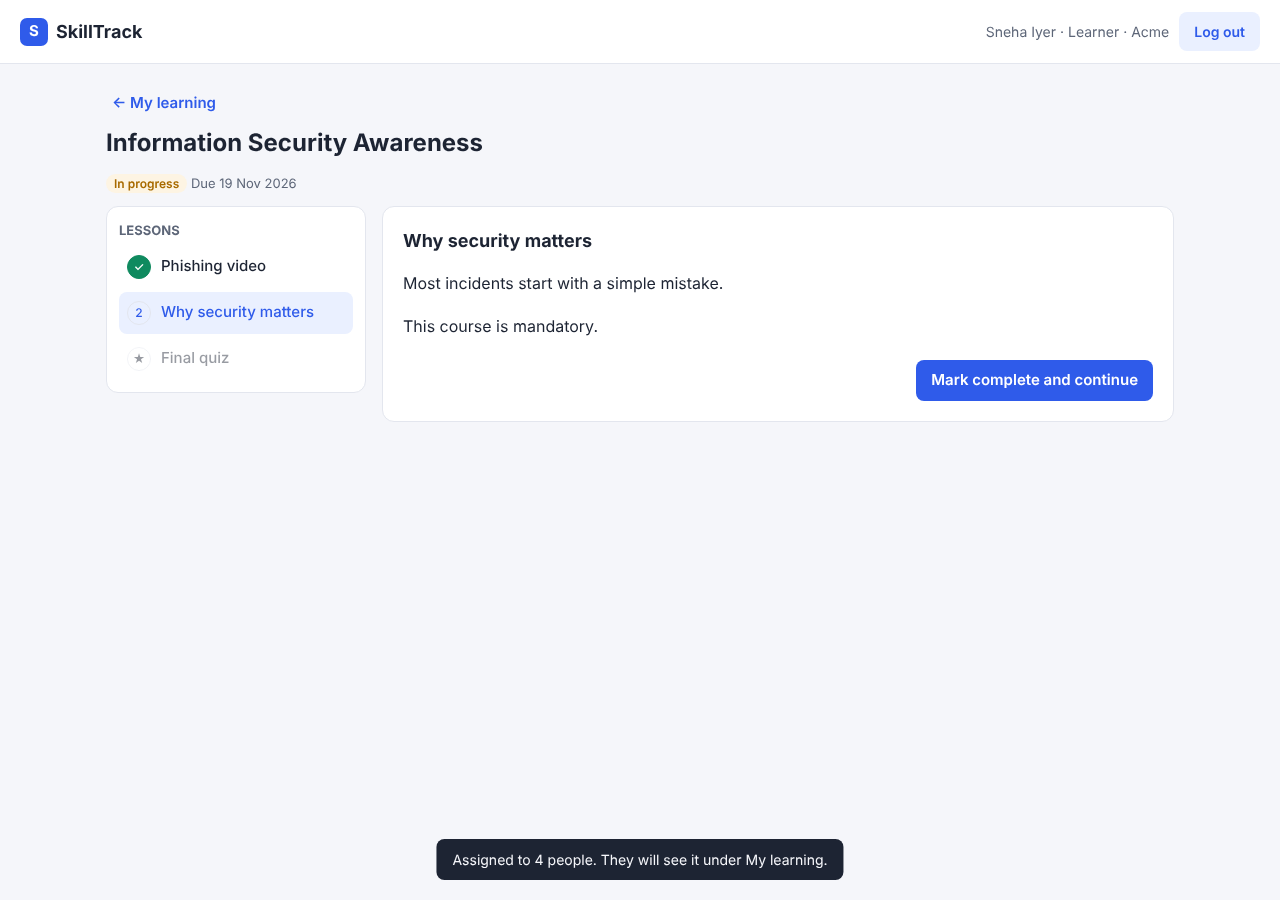
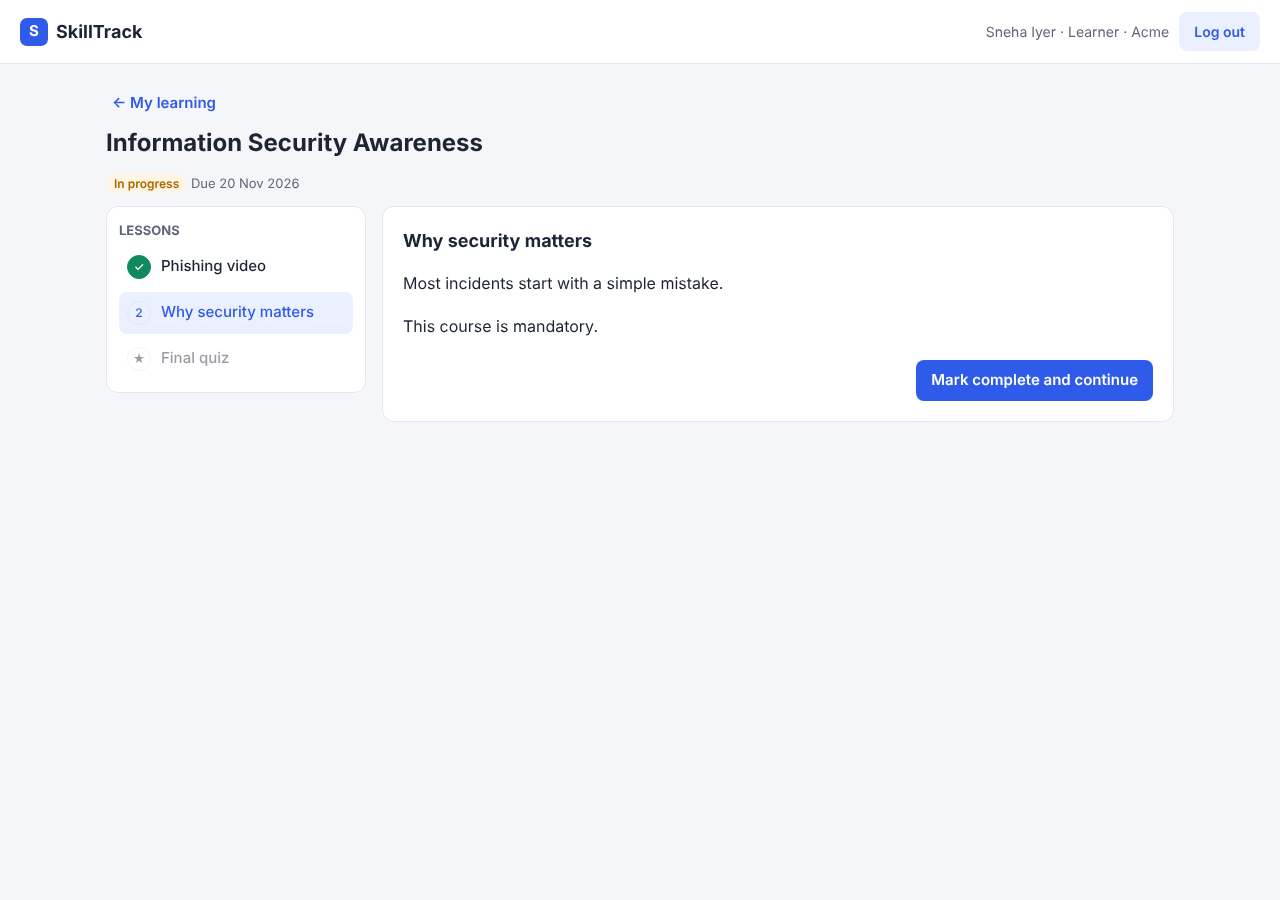
Add files via upload

Changed region(s): [[0.3438, 0.9333, 0.6562, 0.9956], [0.1562, 0.1867, 0.25, 0.2178]]

diff --git a/reports.js b/reports.js
@@ -1,0 +1,121 @@
+/* SkillTrack - Week 4: reports dashboard, at-risk list, reminders */
+
+let rep = null;
+
+async function renderReports(ctx) {
+  view = 'reports';
+  app.innerHTML = `${ctx.fromSuper ? `<button class="link" id="back">← All companies</button>` : ''}
+    <h1>${esc(ctx.companyName || 'Reports')}</h1><p class="muted">Training completion, overdue work and who needs a nudge.</p>
+    ${adminNav('reports', ctx)}<div id="repBody" class="card">Loading…</div>`;
+  wireNav(ctx);
+  if (ctx.fromSuper) $('#back').onclick = renderCompanies;
+  const [{ data: members }, { data: courses }, { data: lessons }, { data: asg, error }] = await Promise.all([
+    sb.from('members').select('id, full_name, email, department, manager_email, active').eq('company_id', ctx.companyId),
+    sb.from('courses').select('id, title, status').eq('company_id', ctx.companyId),
+    sb.from('lessons').select('id, course_id').eq('company_id', ctx.companyId),
+    sb.from('assignments').select('*').eq('company_id', ctx.companyId)
+  ]);
+  if (error) return $('#repBody').innerHTML = `<div class="msg err">${esc(friendly(error))}</div>`;
+  const lessonCount = {}; (lessons || []).forEach(l => lessonCount[l.course_id] = (lessonCount[l.course_id] || 0) + 1);
+  const mem = Object.fromEntries((members || []).map(m => [m.id, m])), crs = Object.fromEntries((courses || []).map(c => [c.id, c]));
+  const rows = (asg || []).filter(a => mem[a.member_id]?.active && crs[a.course_id]).map(a => {
+    const n = lessonCount[a.course_id] || 0, pct = a.status === 'completed' ? 100 : n ? Math.round(100 * Math.min(a.completed_lessons.length, n) / n) : 0;
+    return { ...a, m: mem[a.member_id], c: crs[a.course_id], pct, ...riskOf(a, pct) };
+  });
+  rep = { ctx, rows, course: '', dept: '', sel: new Set() };
+  drawReports();
+}
+
+// At-risk rules (same idea as the Learner Analytics Dashboard)
+function riskOf(a, pct) {
+  if (a.status === 'completed') return { risk: null, reason: '' };
+  const left = a.due_date ? daysUntil(a.due_date) : null, age = Math.round((Date.now() - new Date(a.assigned_at)) / 864e5);
+  if (a.status === 'failed') return { risk: 'High', reason: 'Failed the quiz, no attempts left' };
+  if (left !== null && left < 0) return { risk: 'High', reason: `Overdue by ${-left} day${left === -1 ? '' : 's'}` };
+  if (left !== null && left <= 7 && pct < 50) return { risk: 'High', reason: `Due in ${left} day${left === 1 ? '' : 's'}, only ${pct}% done` };
+  if (left !== null && left <= 14 && pct < 50) return { risk: 'Medium', reason: `Due in ${left} days, only ${pct}% done` };
+  if (a.status === 'not_started' && age >= 7) return { risk: 'Medium', reason: `Not started ${age} days after assignment` };
+  return { risk: null, reason: '' };
+}
+
+function drawReports() {
+  const { rows: all, ctx } = rep;
+  const courses = [...new Map(all.map(r => [r.c.id, r.c.title]))].sort((a, b) => a[1] > b[1] ? 1 : -1);
+  const depts = [...new Set(all.map(r => r.m.department).filter(Boolean))].sort();
+  const rows = all.filter(r => (!rep.course || r.c.id === rep.course) && (!rep.dept || r.m.department === rep.dept));
+  const done = rows.filter(r => r.status === 'completed'), overdue = rows.filter(r => assignmentStatus(r).text === 'Overdue');
+  const scores = done.map(r => r.best_score).filter(s => s != null);
+  const risk = rows.filter(r => r.risk).sort((a, b) => (a.risk === b.risk ? 0 : a.risk === 'High' ? -1 : 1) || (a.due_date || '') .localeCompare(b.due_date || ''));
+  const rate = list => list.length ? Math.round(100 * list.filter(r => r.status === 'completed').length / list.length) : 0;
+  const group = key => Object.entries(rows.reduce((g, r) => ((g[key(r) || 'No department'] ??= []).push(r), g), {}))
+    .map(([name, list]) => ({ name, rate: rate(list), n: list.length, late: list.filter(r => assignmentStatus(r).text === 'Overdue').length })).sort((a, b) => b.rate - a.rate);
+  const byCourse = group(r => r.c.title), byDept = group(r => r.m.department);
+  const bars = list => list.map(d => `<div class="rbar"><span title="${esc(d.name)}">${esc(d.name)}</span><div class="bar"><div style="width:${d.rate}%"></div></div><b>${d.rate}%</b><span class="muted small">${d.n} assigned${d.late ? ` · <span class="bad">${d.late} overdue</span>` : ''}</span></div>`).join('');
+
+  const insights = [];
+  if (rows.length) {
+    insights.push(`Overall completion is <b>${rate(rows)}%</b> across ${new Set(rows.map(r => r.member_id)).size} people and ${rows.length} assignments.`);
+    if (byDept.length > 1) insights.push(`<b>${esc(byDept.at(-1).name)}</b> has the lowest completion (${byDept.at(-1).rate}%), compared with <b>${esc(byDept[0].name)}</b> at ${byDept[0].rate}%.`);
+    if (overdue.length) { const worst = [...byCourse].sort((a, b) => b.late - a.late)[0]; insights.push(`<b>${overdue.length}</b> ${overdue.length === 1 ? 'assignment is' : 'assignments are'} overdue${overdue.length === 1 ? ` in "${esc(worst.name)}"` : worst.late ? `, most of them in "${esc(worst.name)}" (${worst.late})` : ''}.`); }
+    const high = new Set(risk.filter(r => r.risk === 'High').map(r => r.member_id)).size;
+    if (high) insights.push(`Suggested action: send a reminder to the <b>${high}</b> people with high-risk training this week.`);
+    else insights.push('No high-risk training right now. Good work!');
+  }
+
+  $('#repBody').outerHTML = `<div id="repBody">
+    <div class="card row" style="justify-content:space-between">
+      <div class="row"><select id="rCourse" style="width:auto"><option value="">All courses</option>${courses.map(([id, t]) => `<option value="${id}" ${id === rep.course ? 'selected' : ''}>${esc(t)}</option>`).join('')}</select>
+        <select id="rDept" style="width:auto"><option value="">All departments</option>${depts.map(d => `<option ${d === rep.dept ? 'selected' : ''}>${esc(d)}</option>`).join('')}</select></div>
+      <button class="sec" id="expAll">Export full report (CSV)</button></div>
+    ${!rows.length ? `<div class="card"><p class="muted">No training assigned yet. Assign a course from the Courses tab and the report will fill in here.</p></div>` : `
+    <div class="grid" style="margin-top:16px">
+      <div class="stat"><b>${rate(rows)}%</b><span class="muted small">Completion rate</span></div>
+      <div class="stat"><b>${done.length} / ${rows.length}</b><span class="muted small">Assignments completed</span></div>
+      <div class="stat"><b class="${overdue.length ? 'bad' : ''}">${overdue.length}</b><span class="muted small">Overdue</span></div>
+      <div class="stat"><b>${new Set(risk.map(r => r.member_id)).size}</b><span class="muted small">People at risk</span></div>
+      <div class="stat"><b>${scores.length ? Math.round(scores.reduce((a, b) => a + b, 0) / scores.length) + '%' : '–'}</b><span class="muted small">Average quiz score</span></div>
+    </div>
+    <div class="card"><h2>Key insights</h2><ul>${insights.map(i => `<li>${i}</li>`).join('')}</ul></div>
+    <div class="grid" style="grid-template-columns:repeat(auto-fit,minmax(340px,1fr))">
+      <div class="card"><h2>Completion by course</h2>${bars(byCourse)}</div>
+      <div class="card"><h2>Completion by department</h2>${bars(byDept)}</div></div>
+    <div class="card"><div class="row" style="justify-content:space-between"><h2 style="margin:0">At-risk training (${risk.length})</h2>
+      <div class="row"><button class="sec" id="expRisk" ${risk.length ? '' : 'disabled'}>Export (CSV)</button><button id="remind" ${risk.length ? '' : 'disabled'}>Email reminder to selected</button></div></div>
+      <p class="muted small">High: overdue, failed, or due within 7 days and under 50% done. Medium: due within 14 days and under 50% done, or not started a week after assignment.</p>
+      <div class="tbl">${risk.length ? `<table><thead><tr><th><input type="checkbox" id="selAll" style="width:auto" checked></th><th>Learner</th><th>Department</th><th>Course</th><th>Progress</th><th>Due</th><th>Risk</th><th>Reason</th></tr></thead><tbody>
+        ${risk.map(r => `<tr><td><input type="checkbox" class="rsel" value="${r.id}" style="width:auto" checked></td><td>${esc(r.m.full_name)}</td><td>${esc(r.m.department || '–')}</td><td>${esc(r.c.title)}</td><td>${r.pct}%</td><td>${fmtDate(r.due_date)}</td>
+        <td><span class="tag ${r.risk === 'High' ? 'bad' : 'warn'}">${r.risk}</span></td><td>${esc(r.reason)}</td></tr>`).join('')}</tbody></table>` : '<p class="muted">Nobody is at risk right now.</p>'}</div></div>`}
+  </div>`;
+
+  $('#rCourse').onchange = e => { rep.course = e.target.value; drawReports(); };
+  $('#rDept').onchange = e => { rep.dept = e.target.value; drawReports(); };
+  $('#expAll').onclick = () => rows.length ? download('skilltrack-training-report.csv', csvOf(rows)) : toast('Nothing to export yet.');
+  if (!risk.length) return;
+  const selected = () => risk.filter(r => [...app.querySelectorAll('.rsel:checked')].some(i => i.value === r.id));
+  $('#selAll').onchange = e => app.querySelectorAll('.rsel').forEach(i => i.checked = e.target.checked);
+  $('#expRisk').onclick = () => download('skilltrack-at-risk.csv', csvOf(selected().length ? selected() : risk, true));
+  $('#remind').onclick = () => reminderEmail(selected());
+}
+
+function csvOf(list, withRisk) {
+  const cell = v => `"${String(v ?? '').replace(/"/g, '""')}"`;
+  const head = ['Learner', 'Email', 'Department', 'Manager email', 'Course', 'Status', 'Progress %', 'Best score %', 'Attempts', 'Assigned', 'Due date', 'Completed', 'Certificate no'].concat(withRisk ? ['Risk', 'Reason'] : []);
+  const lines = list.map(r => [r.m.full_name, r.m.email, r.m.department, r.m.manager_email, r.c.title, assignmentStatus(r).text, r.pct, r.best_score, r.attempts,
+    (r.assigned_at || '').slice(0, 10), r.due_date, (r.completed_at || '').slice(0, 10), r.certificate_no].concat(withRisk ? [r.risk, r.reason] : []).map(cell).join(','));
+  return [head.map(cell).join(','), ...lines].join('\n');
+}
+
+// Opens HR's own email app with the learners in BCC and a ready message.
+function reminderEmail(list) {
+  if (!list.length) return toast('Tick at least one learner.');
+  const emails = [...new Set(list.map(r => r.m.email))];
+  const courses = [...new Set(list.map(r => r.c.title))];
+  const subject = courses.length === 1 ? `Reminder: please complete "${courses[0]}"` : 'Reminder: please complete your assigned training';
+  const body = `Hi,\n\nThis is a friendly reminder that you have training to complete in SkillTrack:\n\n${courses.map(c => `- ${c}`).join('\n')}\n\nPlease log in at ${SITE} and finish it before the due date.\n\nThank you,\n${me.member?.full_name || 'HR team'}`;
+  const url = `mailto:?bcc=${encodeURIComponent(emails.join(','))}&subject=${encodeURIComponent(subject)}&body=${encodeURIComponent(body)}`;
+  if (url.length > 1900) {
+    navigator.clipboard?.writeText(emails.join(', '));
+    toast(`${emails.length} email addresses copied. Paste them into BCC in your email app.`, 6000);
+    location.href = `mailto:?subject=${encodeURIComponent(subject)}&body=${encodeURIComponent(body)}`;
+  } else location.href = url;
+}

diff --git a/app.js b/app.js
@@ -123,14 +123,13 @@ async function loadMe(user) {
 /* ---------------- navigation tabs ---------------- */
 function adminNav(active, ctx) {
   const tabs = [];
-  if (me.isSuper || me.member?.role === 'org_admin') tabs.push(['employees', 'Employees'], ['courses', 'Courses']);
+  if (me.isSuper || me.member?.role === 'org_admin') tabs.push(['employees', 'Employees'], ['courses', 'Courses'], ['reports', 'Reports']);
   if (me.member?.role === 'manager') tabs.push(['team', 'My team']);
   if (me.member && !ctx.fromSuper) tabs.push(['learning', 'My learning']);
-  return `<div class="nav">${tabs.map(([k, v]) => `<button data-nav="${k}" class="${k === active ? 'on' : ''}">${v}</button>`).join('')}
-    ${me.isSuper || me.member?.role === 'org_admin' ? '<button disabled title="Coming in Week 4">Reports (soon)</button>' : ''}</div>`;
+  return `<div class="nav">${tabs.map(([k, v]) => `<button data-nav="${k}" class="${k === active ? 'on' : ''}">${v}</button>`).join('')}</div>`;
 }
 function wireNav(ctx) {
-  const go = { employees: () => renderEmployees(ctx.companyId, ctx.companyName, ctx.fromSuper), courses: () => renderCourses(ctx),
+  const go = { employees: () => renderEmployees(ctx.companyId, ctx.companyName, ctx.fromSuper), courses: () => renderCourses(ctx), reports: () => renderReports(ctx),
                team: () => renderTeam(ctx), learning: () => renderMyLearning(ctx) };
   app.querySelectorAll('[data-nav]').forEach(b => b.onclick = () => go[b.dataset.nav]());
 }

diff --git a/learn.js b/learn.js
@@ -86,8 +86,11 @@ function lessonBody(l) {
     return src ? `<div class="video"><iframe src="${src}" allow="fullscreen; picture-in-picture" allowfullscreen title="${esc(l.title)}"></iframe></div>`
                : `<p><a href="${esc(url)}" target="_blank" rel="noopener">Open the video in a new tab</a></p>`;
   }
-  const gd = url.match(/drive\.google\.com\/file\/d\/([\w-]+)/);
-  const src = gd ? `https://drive.google.com/file/d/${gd[1]}/preview` : url;
+  // Google Drive links use Drive's own viewer; other public PDF links use Google's document viewer,
+  // because many websites refuse to be shown inside another page.
+  const gd = url.match(/drive\.google\.com\/(?:file\/d\/|open\?id=|uc\?(?:export=\w+&)?id=)([\w-]+)/);
+  const src = gd ? `https://drive.google.com/file/d/${gd[1]}/preview`
+    : `https://docs.google.com/viewer?url=${encodeURIComponent(url)}&embedded=true`;
   return `<div class="pdf"><iframe src="${esc(src)}" title="${esc(l.title)}"></iframe></div>
     <p class="small"><a href="${esc(url)}" target="_blank" rel="noopener">Open the PDF in a new tab</a> if it does not show above.</p>`;
 }

diff --git a/styles.css b/styles.css
@@ -66,3 +66,7 @@ fieldset.qbox{margin:12px 0 0}
 .video{aspect-ratio:16/9}.pdf{height:70vh;background:var(--bg)}
 .video iframe,.pdf iframe{position:absolute;inset:0;width:100%;height:100%;border:0}
 .tag:not(.ok):not(.warn):not(.bad){background:var(--line);color:var(--muted)}
+.rbar{display:grid;grid-template-columns:minmax(90px,170px) 1fr 44px;gap:4px 10px;align-items:center;margin:10px 0}
+.rbar>span:first-child{overflow:hidden;text-overflow:ellipsis;white-space:nowrap;font-size:14px}
+.rbar>.muted{grid-column:2 / 4;margin-top:-4px}
+ul li{margin:4px 0}

diff --git a/index.html b/index.html
@@ -20,6 +20,7 @@
 <script src="app.js"></script>
 <script src="courses.js"></script>
 <script src="learn.js"></script>
+<script src="reports.js"></script>
 <script>start();</script>
 </body>
 </html>

diff --git a/README.md b/README.md
@@ -27,7 +27,17 @@ Simple training and compliance tracking for growing companies: assign mandatory 
 ![Lesson](screenshot-lesson.png)
 ![Certificate](screenshot-certificate.png)
 
-Coming next: email reminders and reports (Week 4), AI course generator (Week 5).
+## Week 4 features (live)
+- **Reports** tab for HR: completion rate, overdue count, people at risk, average score
+- Completion by course and by department, filterable
+- **At-risk list** with a plain-English reason (overdue, failed, due soon with little progress, not started)
+- **Email reminder** button: opens HR's email app with the selected learners in BCC and a ready message
+- Export the full report or the at-risk list to CSV
+- More reliable PDF lessons, and tighter database permissions
+
+![Reports](screenshot-reports.png)
+
+Coming next: automatic email reminders, AI course generator (Week 5).
 
 ## One-time setup
 
@@ -35,7 +45,7 @@ Coming next: email reminders and reports (Week 4), AI course generator (Week 5).
 1. Open your Supabase project → **SQL Editor** → **New query**.
 2. Open `setup.sql`, find `YOUR_EMAIL_HERE` at the bottom and replace it with **your** email (this becomes the Super Admin).
 3. Paste the whole file into the editor and click **Run**. You should see "Success. No rows returned".
-4. Then open a **New query**, paste the whole of `week2.sql` and click **Run**.
+4. Then open a **New query**, paste the whole of `week2.sql` and click **Run**. Do the same with `week4.sql`.
 
 ### 2. Login settings (Supabase)
 1. **Authentication → URL Configuration**
